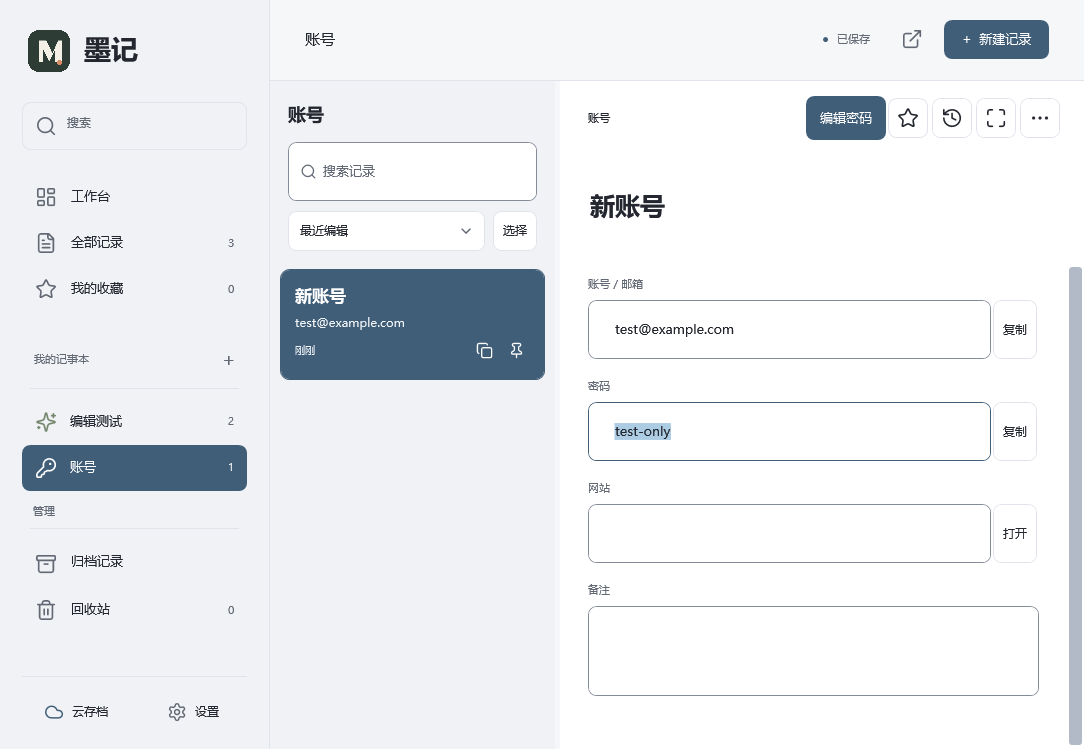
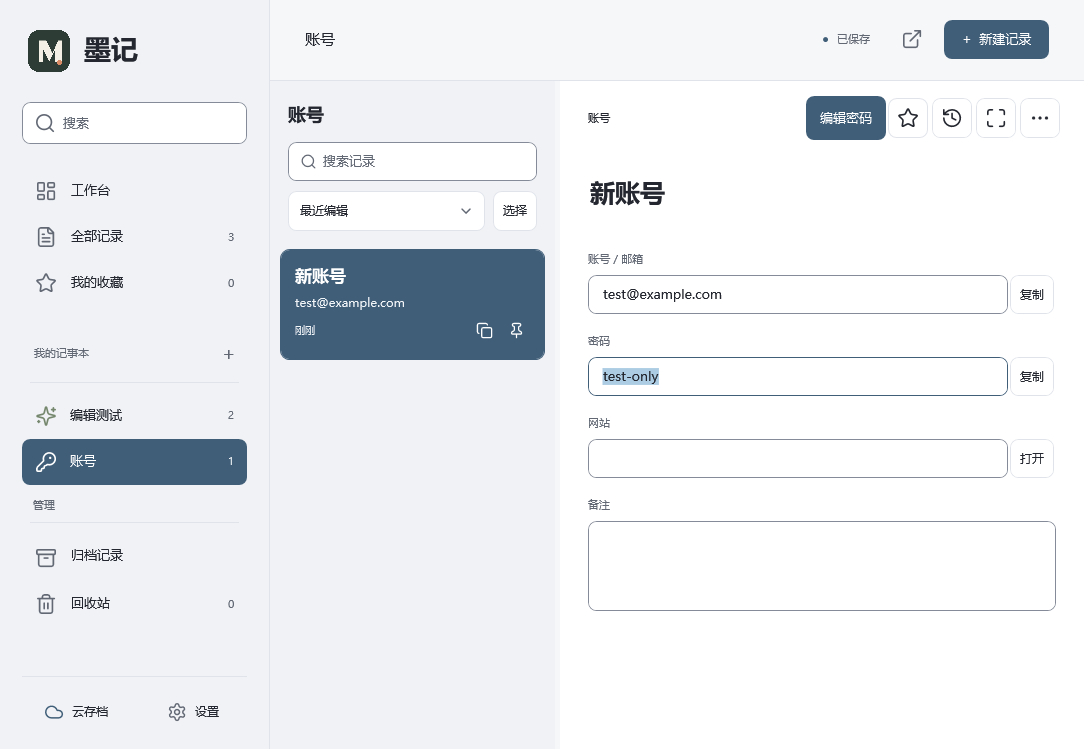
docs: preserve verified 2.4.0 desktop and Android delivery [skip ci]

diff --git a/docs/PROGRESS.md b/docs/PROGRESS.md
@@ -1,6 +1,24 @@
-# 2.4.0 验证中
+# 2.4.0 交付
 
-正在验证选中与分隔、置顶状态、重复菜单移除、拖动动画、本机显示字体和明确的记录多选模式。
+本次完成纯色填充反白的当前记事本和记录、清楚的卡片分隔、置顶实心状态、记事本拖动动画、本机显示字体和明确的记录多选模式。删除列表标题旁的重复更多菜单。密码文字选择使用正文下层高亮，字形保持清楚；批量删除其他记录不会关闭正在编辑的正文。
+
+侧栏底部的云存档与设置并排等高，所有管理入口随侧栏滚动。全局搜索直接在侧栏输入，结果以下拉列表出现；输入时不跳转，点击或回车才打开，方向键选择、Esc / 返回 / 外部点击收起。手机搜索入口打开侧栏并聚焦输入，平板键盘弹出时保留原布局。Windows 修复输入框内边距重复，光标与左侧图标间距恢复正常。[方案、实际截图与来源](design/THEMES.md)。
+
+显示字体读取本机可用字体，可搜索、预览、应用或恢复系统默认；同步作用于原生界面和正文，属于本机偏好，不写入正文或云存档。提示词转换后直接聚焦填写区，修正首个字符可能落入正文的问题。
+
+最终 Windows 二进制源提交 `f711314ce4d5eb78fa9fb98c84aa73eab58309e5`；Android 二进制源提交 `6c1d4e9f54820665c625765aa43bc9813bb14654`。后者只改 Android 搜索菜单和对应测试数据，Windows / 共享编辑器 / 资源与前者相同。共享编辑器 69 项、Windows 核心 42 项及 Android 单元 38 项检查通过。
+
+Windows [构建 43827065306](https://github.com/piayboy894/moji-notes/actions/runs/43827065306) 的原生两轮检查分别通过 32 / 31 项，包含实际搜索字符起点、无独立窗口的跨本检索与回车 / Esc、选中文字形像素、纯色反白、等高页脚、本机字体和拖动预览。首次组件安装与共享环境普通启动均通过；ARM64 已构建，未进行 ARM64 真机运行验证。
+
+Android [构建 43829615441](https://github.com/piayboy894/moji-notes/actions/runs/43829615441) 的 22 项原生界面检查通过，包含宽屏键盘避让、手机侧栏输入、全局跨本检索、没有模态搜索窗口、选择记录前保留当前编辑器。同一正式签名 APK 另通过全新安装、覆盖重装和已发布 1.0.0 数据迁移（3 项），以及真实键盘变量填写、系统图片选择 / 取消与进程重开（6 项正式编辑检查）。该轮更新提示层级验证取得“检查更新失败”，验证反馈可见，但不将这一次网络结果记为远端版本查询成功。
+
+[Windows 发布 43830970047](https://github.com/piayboy894/moji-notes/actions/runs/43830970047) 与 [Android 发布 43831599582](https://github.com/piayboy894/moji-notes/actions/runs/43831599582) 均直接发布上述通过检查的原始构建产物，没有发布时重编译。公开下载的安装包、源码、来源与报告均已核验，全部软件包远端摘要与测试产物清单一致。
+
[3 lines of base64/hex data omitted]
+
+完整源码、正式安装包、摘要、签名验证、原生报告和截图保存在 `/workspace/work/moji-notes-2.4.0-20261116`。本次不改变存档格式，手动云存档继续使用；未访问或修改实际私人数据仓库。
 
 # 2.3.0 交付
 

diff --git a/docs/design/THEMES.md b/docs/design/THEMES.md
@@ -39,6 +39,8 @@ Windows 拖动记事本提供随指针移动的抬起预览、相邻项让位和
 
 全局搜索直接在侧栏输入，结果以下拉列表展示，不创建独立搜索对话框。采用可取消的后台检索与短延迟合并输入，结果只展示标题、记事本和时间；输入时不切换当前记录，点击 / 回车才打开，Esc / 返回 / 点击外部收起。手机的全局搜索入口打开侧栏并直接聚焦，平板与宽屏保留侧栏输入；断点基于键盘弹出前的窗口高度，避免输入时侧栏消失。所有导航项可滚动，底部工具保持紧凑。
 
+![Android 原生验证中的侧栏下拉搜索与软键盘避让](global-search-android.png)
+
 Windows 的输入框内边距只由原生内容宿主处理一次；移除边框上的重复 Padding，提示文字使用相同 Margin。搜索光标不再被图标预留空间叠加推远。原生测试核对实际字符起点及下拉搜索范围、跳转、取消。
 
 “显示字体”读取本机可用字体，提供搜索、原字形预览、应用和系统默认。Windows 使用 WPF 的系统字体列表；Android 读取系统字体配置及公开 SystemFonts API 可访问的字体（系统未向应用开放的字体无法枚举）。选择同时作用于原生界面和正文，代码块仍保持等宽字体；不重建编辑器，不写进正文或云端存档。字体未安装或不可读时回退系统默认。Android 通过只允许字体目录清单的本地资源处理器向编辑器提供字体，不开放任意文件路径，不附带整套字体增加包体。
